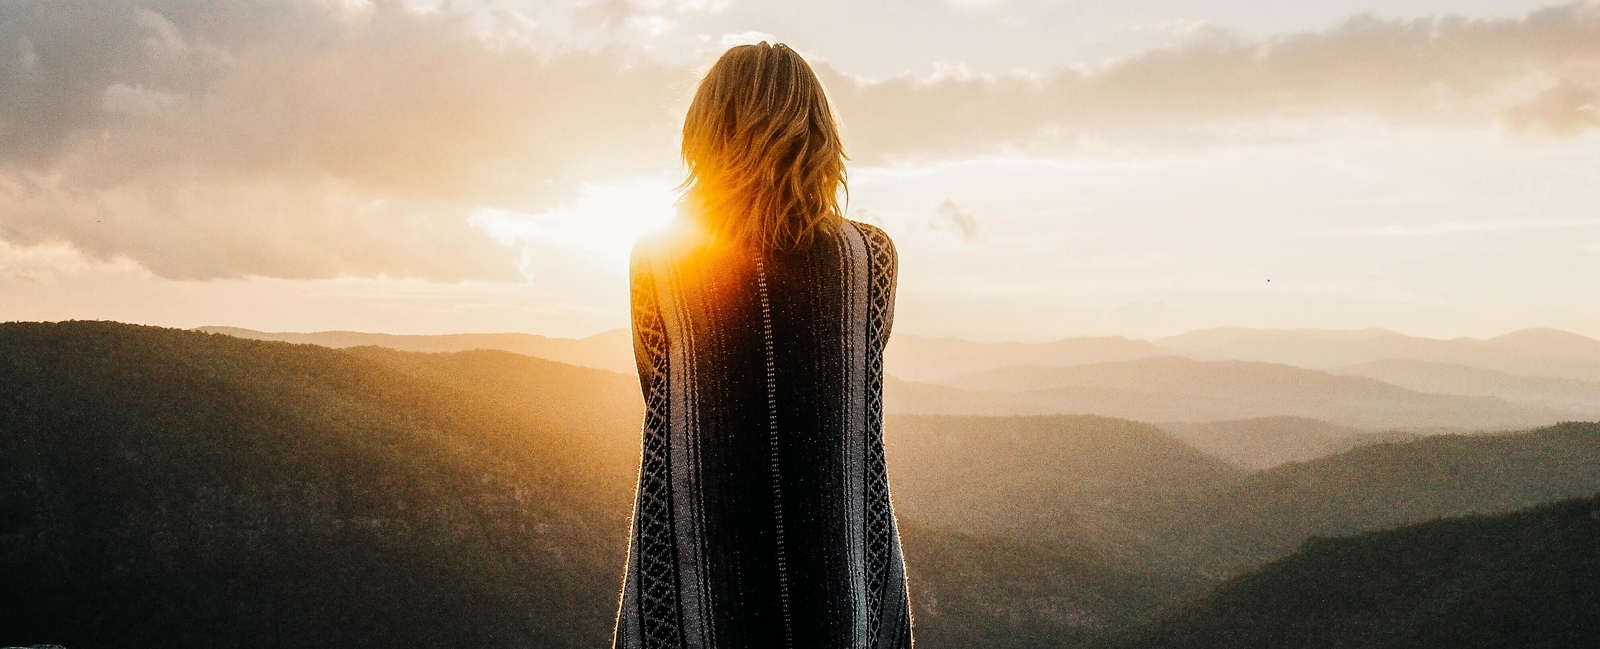
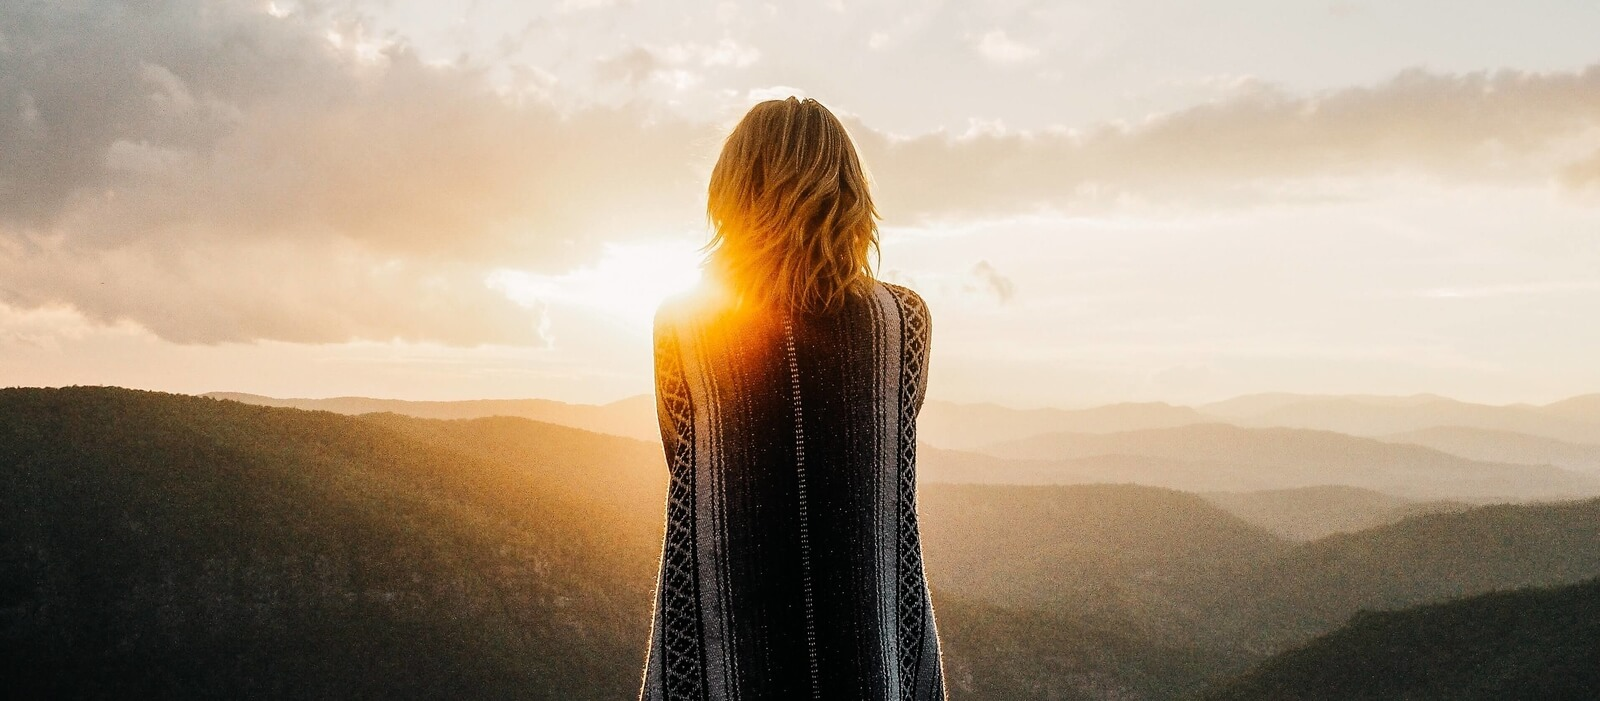
Header reworked, image compression

diff --git a/src/styles/global.less b/src/styles/global.less
@@ -120,7 +120,6 @@ body > div > div {
 }
 
 .global-navbar {
-    /*  background: transparent !important; */
     position: absolute !important;
     top: 0;
     width: 100%;
@@ -128,22 +127,20 @@ body > div > div {
     padding: 0em 0em;
     margin-bottom: 1em;
     border: none;
-    background: rgba(255, 255, 255, 0.72) !important;
     text-align: 'center';
     box-shadow: 0px 3px 7px 2px rgba(0, 0, 0, 0.07);
 }
+
+.global-navbar-transparent {
+    background-color: rgba(255, 255, 255, 0.25) !important;
+}
+
 .global-navbar-scrolled {
-    /*  background: transparent !important; */
-    position: absolute !important;
-    top: 0;
-    width: 100%;
-    z-index: 100;
-    padding: 0em 0em;
-    margin-bottom: 1em;
-    border: none;
     background: rgba(255, 255, 255, 0.72) !important;
-    text-align: 'center';
-    box-shadow: 0px 3px 7px 2px rgba(0, 0, 0, 0.07);
+}
+
+.global-navbar-scrolled > .logo-container > img {
+    filter: drop-shadow(0px 0px 9px rgba(255, 255, 255, 0.8));
 }
 
 .global-navbar-mobile {
@@ -177,7 +174,7 @@ body > div > div {
     }
 }
 @supports ((-webkit-backdrop-filter: blur(20px)) or (backdrop-filter: blur(20px))) {
-    .global-navbar {
+    .global-navbar-transparent {
         background-color: rgba(255, 255, 255, 0.25) !important;
         -webkit-backdrop-filter: saturate(180%) blur(20px);
         backdrop-filter: saturate(180%) blur(20px) !important;

diff --git a/src/components/layout.tsx b/src/components/layout.tsx
@@ -132,8 +132,10 @@ class Layout extends React.Component<Props, any> {
                             (typeof window !== 'undefined' && window.innerWidth >= 768)) && (
                             <section
                                 className={
-                                    'responsive-desktop-container' +
-                                    (this.state.theposition > 700 ? ' global-navbar-scrolled' : ' global-navbar')
+                                    'responsive-desktop-container  global-navbar' +
+                                    (!(this.state.theposition > 700) && invertedHeader
+                                        ? ' global-navbar-transparent'
+                                        : ' global-navbar-scrolled')
                                 }
                                 style={{ padding: '0em 0em', marginBottom: '1em', border: 'none', textAlign: 'center' }}
                             >
